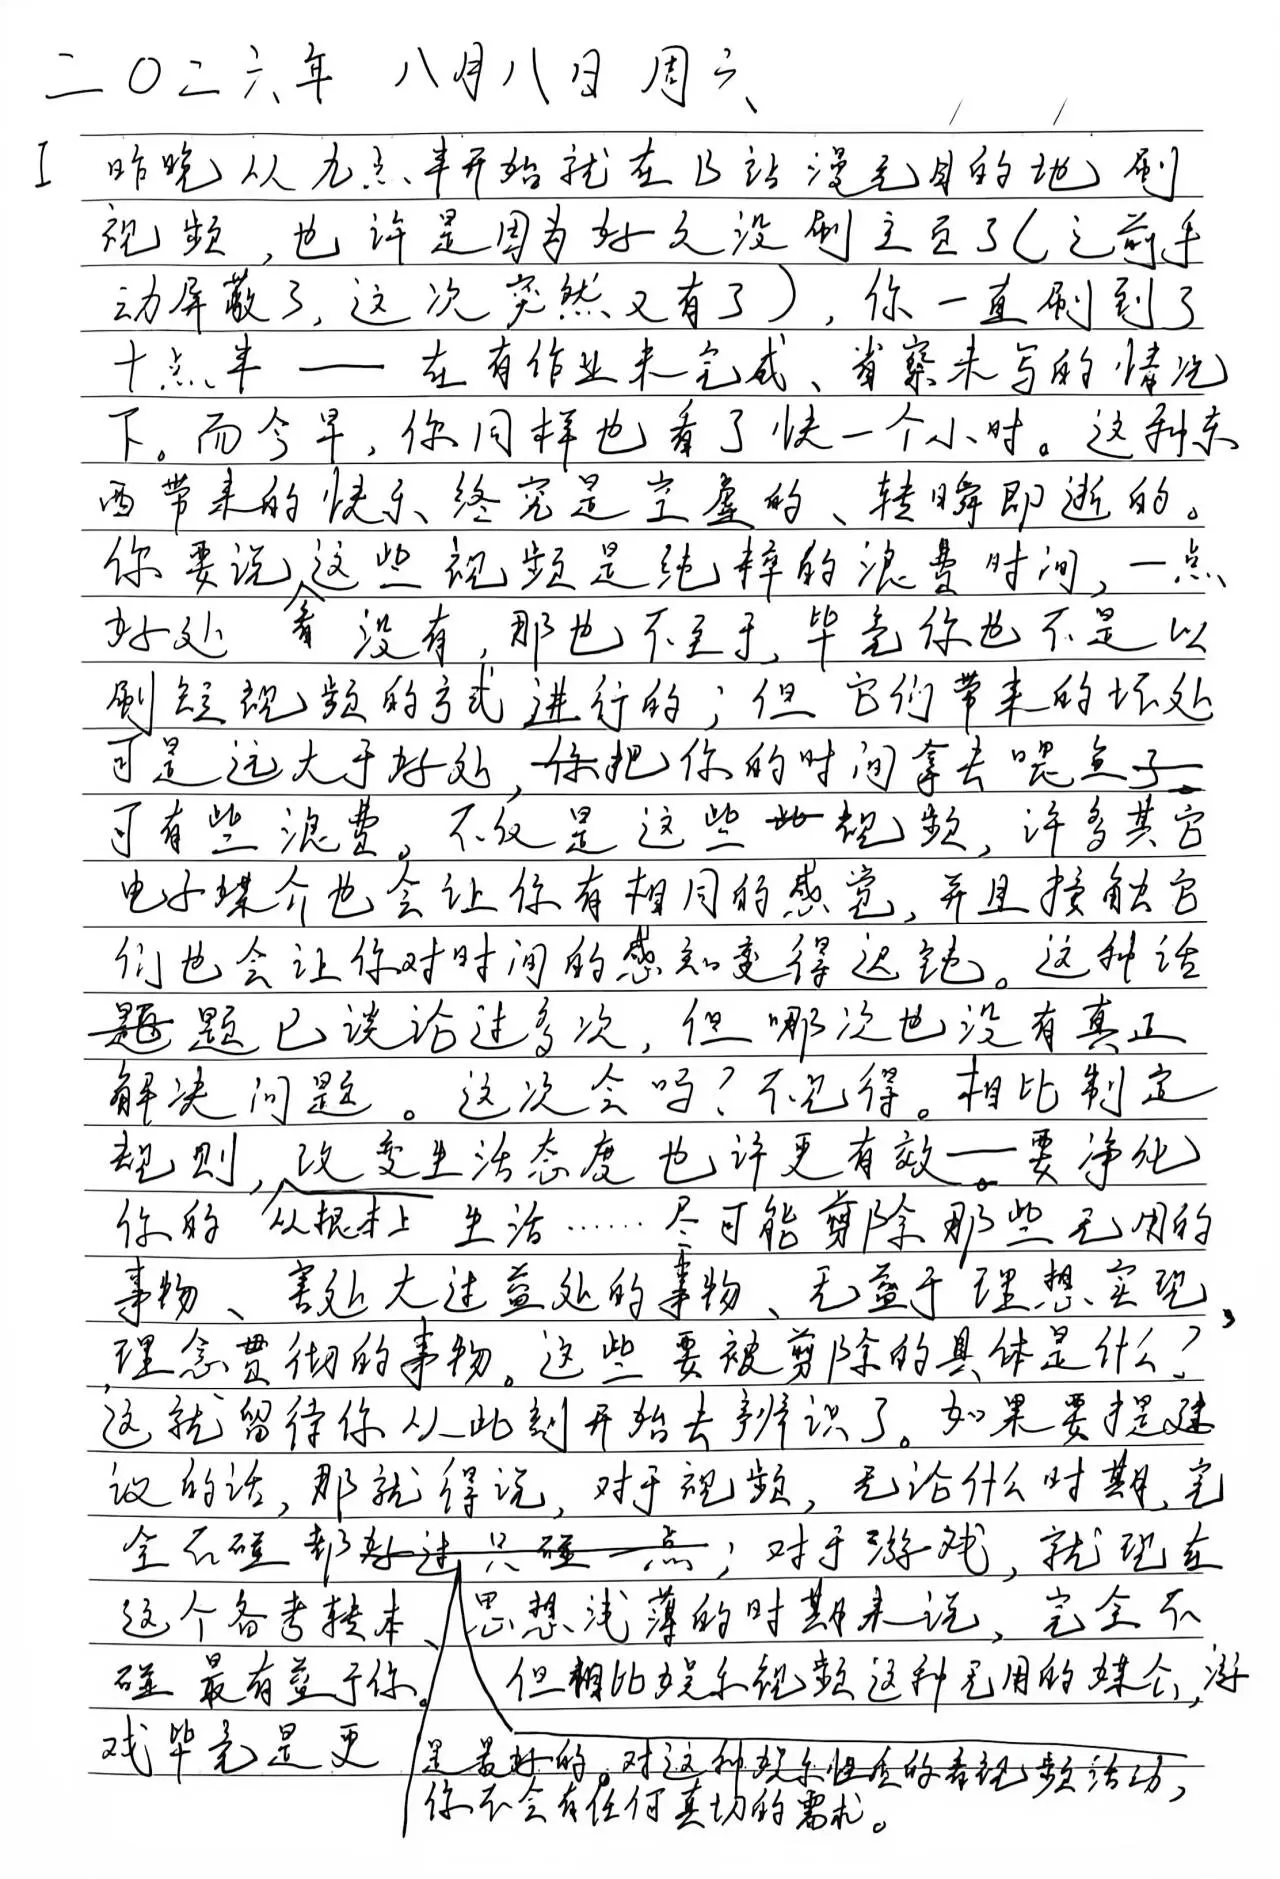
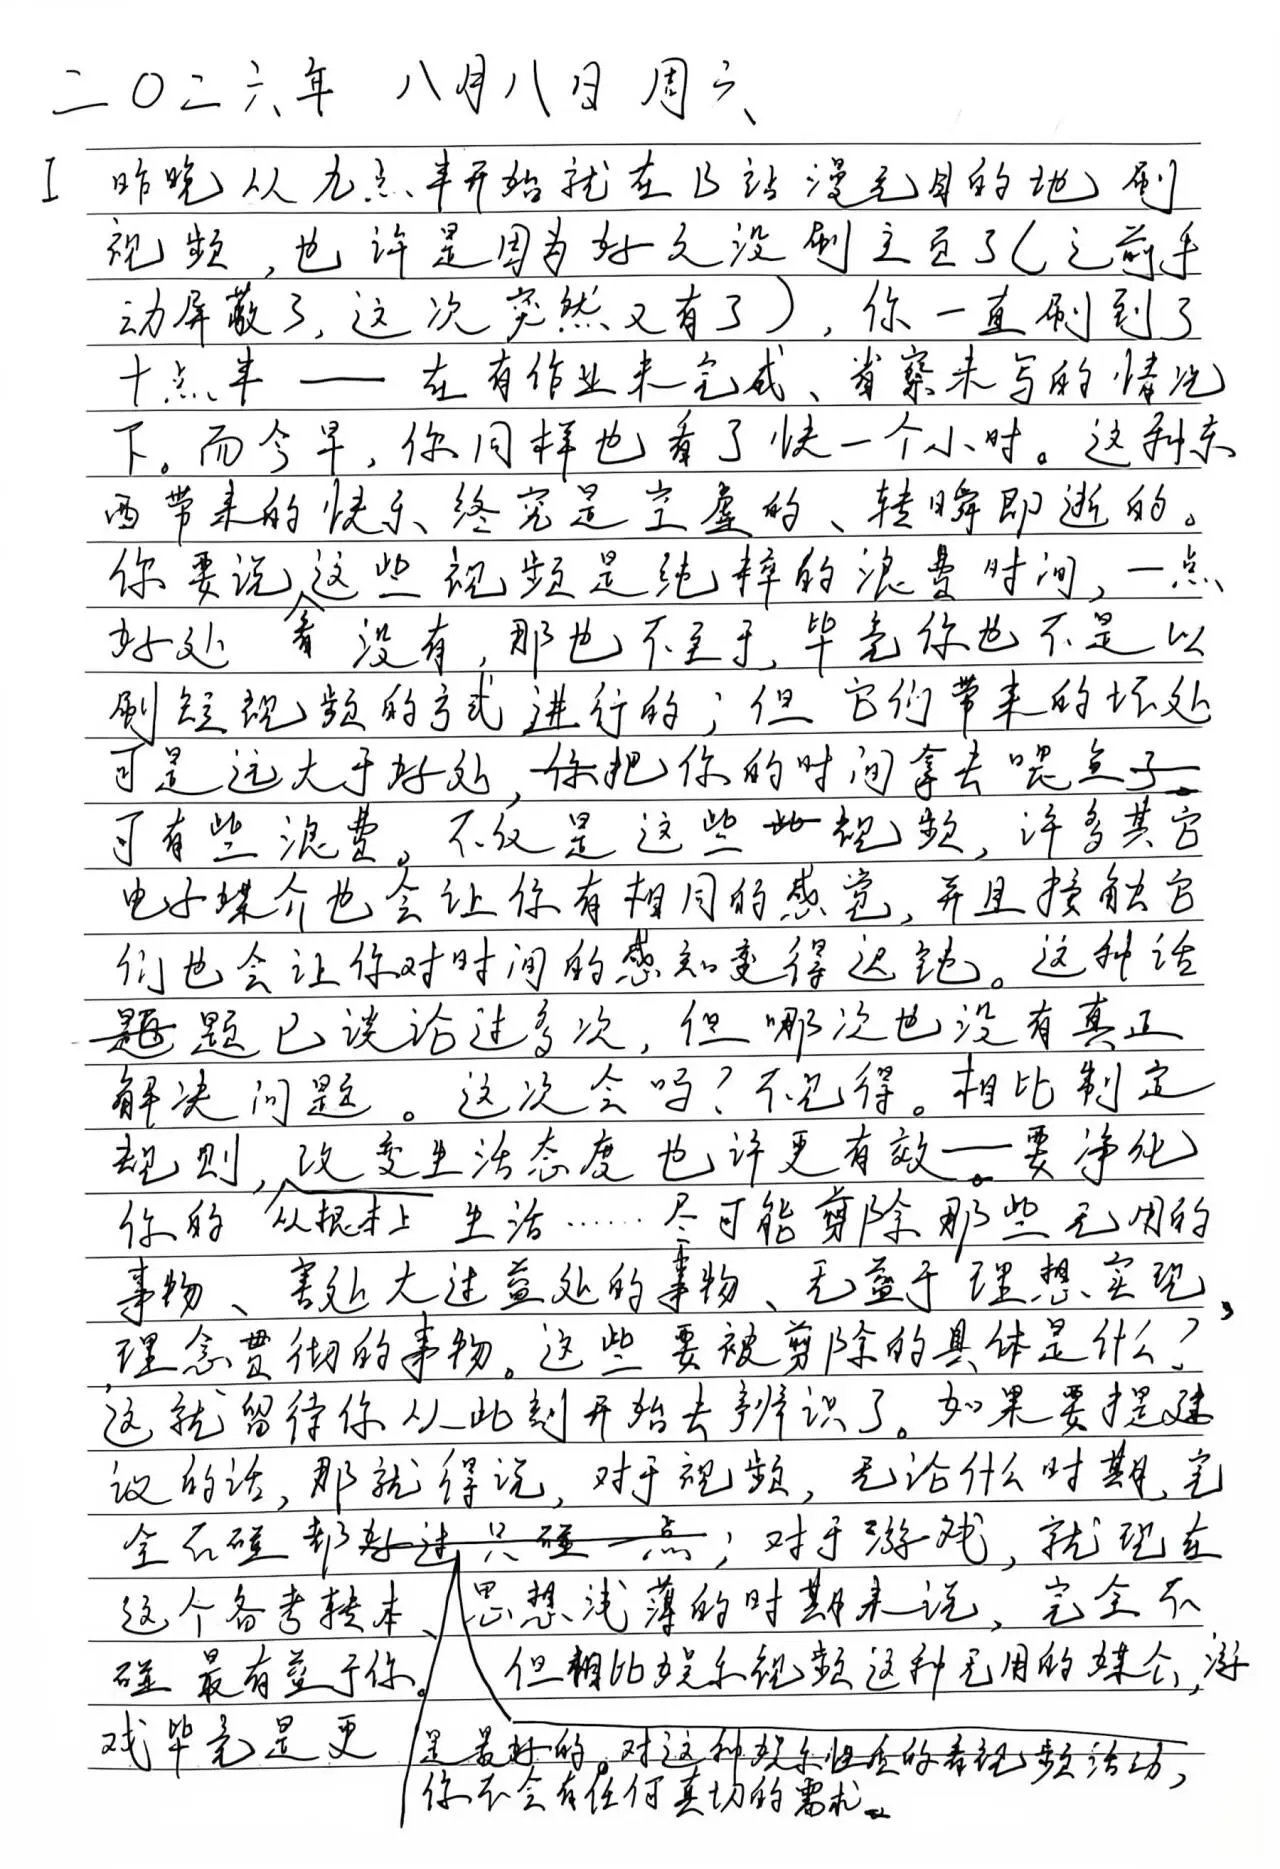
auto deploy TitusAtaraxius/hugo-main@8c8aa617442ecde4fbdb852a1500c1cb0aac1dd0

Changed region(s): [[0.0625, 0.031, 0.9688, 0.993], [0.0312, 0.031, 0.0625, 0.0621]]

diff --git a/p/2026-08-08/index.html b/p/2026-08-08/index.html
@@ -445,8 +445,8 @@
 </h2><h3 id="01">01
 </h3><p><img src="/p/2026-08-08/01.webp"
 	width="1280"
-	height="1879"
-	srcset="/p/2026-08-08/01_hu6802832303929872729.webp 480w, /p/2026-08-08/01_hu4823691223901370262.webp 1024w"
+	height="1869"
+	srcset="/p/2026-08-08/01_hu9635932677678208394.webp 480w, /p/2026-08-08/01_hu12200890758215059059.webp 1024w"
 	loading="lazy"
 	
 		alt="01"
@@ -454,7 +454,7 @@
 	
 		class="gallery-image" 
 		data-flex-grow="68"
-		data-flex-basis="163px"
+		data-flex-basis="164px"
 	
 ></p>
 <h3 id="02">02
